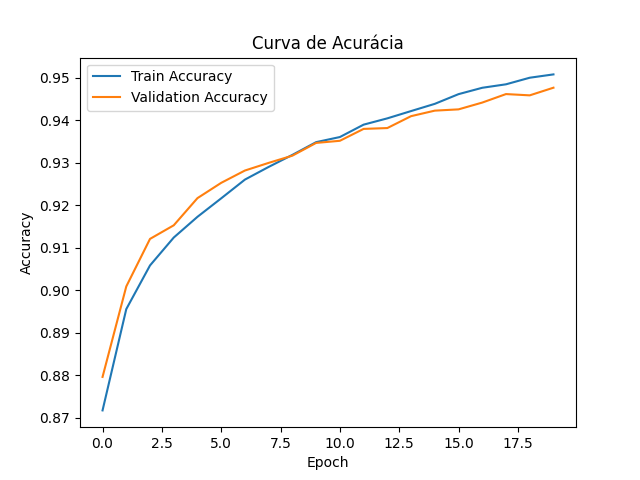
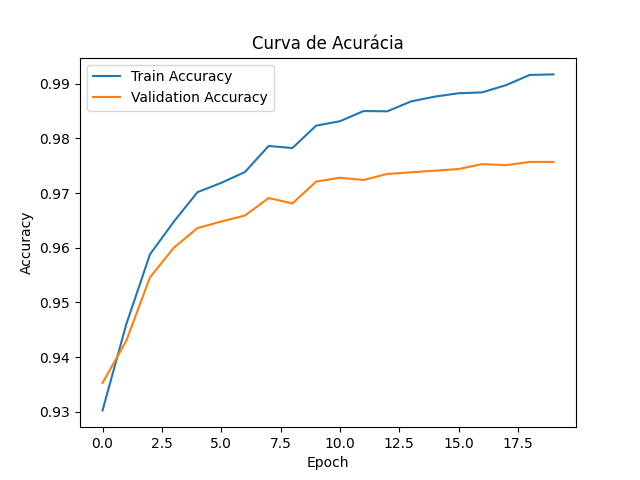
docs: adiciona Readme e finaliza projeto

diff --git a/train.py b/train.py
@@ -72,7 +72,7 @@ def main():
     model = MLP(
         layer_sizes=[784, 64, 10],
         learning_rate=0.01,
-        seed=42
+        optimizer="momentum"
     )
 
     history = model.fit(

diff --git a/README.md b/README.md
@@ -1,0 +1,278 @@
+# MLP do Zero com NumPy para Classificação de Dígitos MNIST
+
+## Visão Geral
+
+Este projeto consiste na implementação de um Multi-Layer Perceptron (MLP). O objetivo foi compreender o funcionamento de uma rede neural, implementando manualmente todas as etapas do treinamento, incluindo forward pass, backpropagation, atualização dos pesos por Stochastic Gradient Descent (SGD) e teste do otimziador Momentum. O dataset utilizado foi MNIST.
+
+---
+
+## Como Rodar
+
+### 1. Clonar o repositório
+
+```bash
+git clone https://github.com/gomes-raf/ponderada_MLP
+cd ponderada_MLP
+```
+
+### 2. Criar ambiente virtual
+
+```bash
+python -m venv .venv
+```
+
+### 3. Ativar ambiente virtual
+
+Windows:
+
+```bash
+.venv\Scripts\activate
+```
+
+Linux/MacOS:
+
+```bash
+source .venv/bin/activate
+```
+
+### 4. Instalar dependências
+
+```bash
+pip install -r requirements.txt
+```
+
+### 5. Executar treinamento
+
+```bash
+python train.py
+```
+
+Os resultados serão exibidos no terminal e os gráficos serão salvos na pasta `results/`.
+
+---
+
+## Estrutura do Projeto
+
+```text
+.
+├── README.md
+├── train.py
+├── requirements.txt
+├── mlp/
+│   ├── __init__.py
+│   ├── network.py
+│   ├── activations.py
+│   ├── losses.py
+│   └── optimizers.py
+├── notebooks/
+│   └── experimentos.ipynb
+└── results/
+```
+
+---
+
+## Arquitetura Escolhida
+
+Foram avaliadas duas arquiteturas distintas.
+
+### Experimento 1
+
+```text
+784 → 128 → 64 → 10
+```
+
+* Entrada: 784 neurônios (28x28 pixels)
+* Camada Oculta 1: 128 neurônios
+* Camada Oculta 2: 64 neurônios
+* Saída: 10 neurônios
+
+### Experimento 2
+
+```text
+784 → 64 → 10
+```
+
+* Entrada: 784 neurônios
+* Camada Oculta: 64 neurônios
+* Saída: 10 neurônios
+
+### Funções utilizadas
+
+* Ativação das camadas ocultas: ReLU
+* Camada de saída: Softmax
+* Função de perda: Cross Entropy
+* Otimizadores avaliados:
+
+  * SGD
+  * Momentum
+* Inicialização dos pesos: He Initialization
+
+A escolha da ReLU foi feita devido à simplicidade computacional e ao bom desempenho em redes profundas. A inicialização de He foi utilizada para evitar problemas de gradientes muito pequenos durante o treinamento.
+
+Além do SGD tradicional, foi implementado o otimizador Momentum como requisito opcional da atividade, permitindo comparar diferentes estratégias de atualização dos pesos.
+
+---
+
+## Implementação
+
+### `activations.py`
+
+Responsável pelas funções de ativação:
+
+* ReLU
+* Derivada da ReLU
+* Softmax
+
+### `losses.py`
+
+Implementação da função de perda:
+
+* Cross Entropy
+
+### `optimizers.py`
+
+Implementação dos algoritmos de otimização:
+
+* Stochastic Gradient Descent (SGD)
+* Momentum
+
+### `network.py`
+
+Implementação completa do MLP:
+
+* Inicialização dos pesos
+* Forward Pass
+* Backpropagation
+* Atualização dos pesos
+* Predição
+* Avaliação
+* Treinamento em mini-batches
+* Suporte a múltiplos otimizadores
+
+### `train.py`
+
+Responsável por:
+
+* Carregar o dataset MNIST
+* Pré-processamento dos dados
+* Treinamento da rede
+* Avaliação
+* Geração dos gráficos
+* Geração da matriz de confusão
+* Comparação entre arquiteturas e otimizadores
+
+---
+
+## Resultados
+
+### Experimento 1 — Arquitetura 784-128-64-10
+
+| Métrica             | Resultado |
+| ------------------- | --------- |
+| Loss Final (Treino) | 0.1017    |
+| Accuracy Treino     | 97.31%    |
+| Loss Teste          | 0.1114    |
+| Accuracy Teste      | 96.67%    |
+
+### Experimento 2 — Arquitetura 784-64-10
+
+| Métrica             | Resultado |
+| ------------------- | --------- |
+| Loss Final (Treino) | 0.1770    |
+| Accuracy Treino     | 95.08%    |
+| Loss Teste          | 0.1752    |
+| Accuracy Teste      | 94.77%    |
+
+---
+
+## Comparação das Arquiteturas
+
+| Experimento | Arquitetura   | Learning Rate | Batch Size | Épocas | Accuracy Teste |
+| ----------- | ------------- | ------------- | ---------- | ------ | -------------- |
+| 1           | 784-128-64-10 | 0.01          | 64         | 20     | 96.67%         |
+| 2           | 784-64-10     | 0.01          | 64         | 20     | 94.77%         |
+
+### Análise
+
+A arquitetura com duas camadas ocultas apresentou melhor desempenho, atingindo 96.67% de acurácia no conjunto de teste.
+
+A presença de uma segunda camada oculta aumentou a capacidade da rede de aprender representações mais complexas dos dígitos manuscritos, resultando em uma melhora de aproximadamente 1.9 pontos percentuais na acurácia final.
+
+---
+
+## Comparação de Otimizadores
+
+Para complementar os experimentos, foi implementado o otimizador Momentum e comparado com o SGD tradicional utilizando a arquitetura ``` 784 → 64 → 10 ``` para entendimento de se esse poderia aumentar ainda mais a perfomance do modelo de menor desempenho.
+
+### Resultados
+
+| Otimizador | Accuracy Treino | Accuracy Teste | Loss Teste |
+| ---------- | --------------- | -------------- | ---------- |
+| SGD        | 95.08%          | 94.77%         | 0.1752     |
+| Momentum   | 99.17%          | 97.57%         | 0.0807     |
+
+### Análise
+
+O uso de Momentum resultou em uma melhora significativa no desempenho da rede.
+
+Enquanto o SGD tradicional atingiu 94.77% de acurácia no conjunto de teste, o Momentum alcançou 97.57%, representando um ganho de aproximadamente 2.8 pontos percentuais.
+
+Além da melhora na acurácia, observou-se uma convergência muito mais rápida. Já na primeira época o modelo com Momentum atingiu 93.53% de acurácia de validação, enquanto o SGD tradicional iniciou com 87.96%.
+
+---
+
+## Curvas de Treinamento
+
+Os seguintes gráficos são gerados automaticamente:
+
+* `results/loss_curve.png`
+<img src="./results/loss_curve.png">
+* `results/accuracy_curve.png`
+<img src="./results/accuracy_curve.png">
+
+Observou-se uma redução contínua da loss ao longo das épocas, indicando que os gradientes foram calculados corretamente e que o processo de treinamento convergiu adequadamente.
+
+Da mesma forma, a acurácia apresentou crescimento consistente tanto no conjunto de treino quanto no conjunto de teste.
+
+---
+
+## Matriz de Confusão
+
+Foi gerada uma matriz de confusão para avaliar os erros do modelo.
+
+* `results/confusion_matrix.png`
+<img src="./results/confusion_matrix.png">
+
+A matriz de confusão permite visualizar quais dígitos são mais frequentemente confundidos entre si. Esse tipo de análise é importante para identificar limitações da arquitetura e possíveis melhorias futuras.
+
+---
+
+## Decisões e Dificuldades
+
+### Qual foi a decisão técnica mais difícil que você tomou? Por que fez essa escolha?
+
+A decisão técnica que mais me fez pensar foi a forma de inicialização dos pesos. Considerei utilizar inicialização com valores muito pequenos ou até mesmo zeros, mas percebi que isso poderia gerar simetria entre os neurônios, fazendo com que todos aprendessem exatamente os mesmos padrões.
+
+Por esse motivo optei pela inicialização de He, que é especialmente indicada para redes que utilizam ReLU.
+
+Outra decisão importante foi a escolha dos otimizadores. Optei pelo Momentum por ser uma extensão direta do SGD e por permitir observar claramente o impacto de diferentes estratégias de atualização dos pesos.
+
+---
+
+### O que você tentou que não funcionou? O que aprendeu com isso?
+
+Uma funcionalidade que tentei implementar foi a verificação dos gradientes utilizando Gradient Check numérico. Durante a implementação encontrei dificuldades para organizar a comparação entre os gradientes analíticos e numéricos em todas as camadas da rede, especialmente devido à quantidade de pesos e à manipulação das matrizes.
+
+Apesar disso, o processo foi importante para entender melhor como o backpropagation funciona internamente e a importância de ferramentas de validação para garantir que os gradientes calculados manualmente estejam corretos.
+
+---
+
+### O que faria diferente?
+
+Se fosse refazer o projeto, começaria validando toda a implementação em um problema menor e mais controlado, como XOR, antes de partir para o MNIST.
+
+Fazendo assim provavelmente facilitaria a depuração dos gradientes e permitiria validar cada etapa da implementação de forma mais controlada.
+
+Além disso tentaria mais a fundo implementar um Gradient Check numérico para verificar automaticamente a correção dos gradientes calculados pelo backpropagation.
+
+---